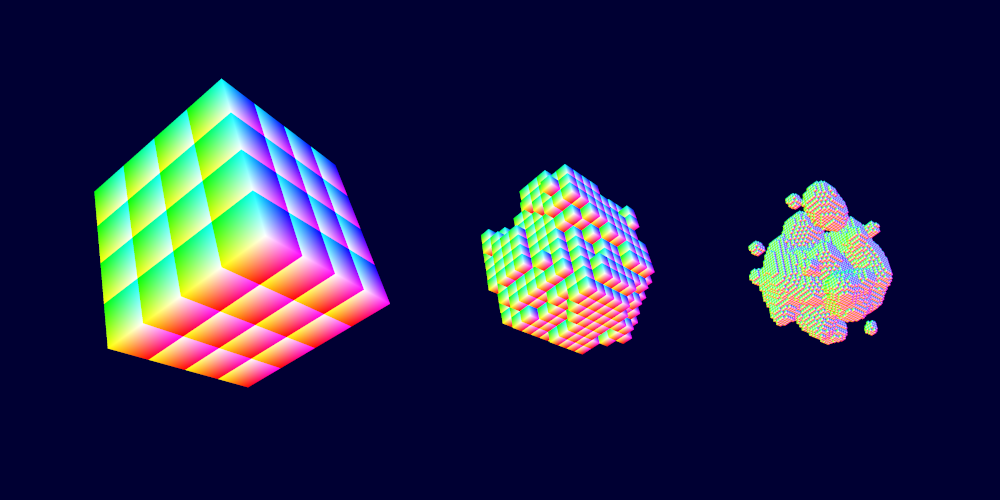
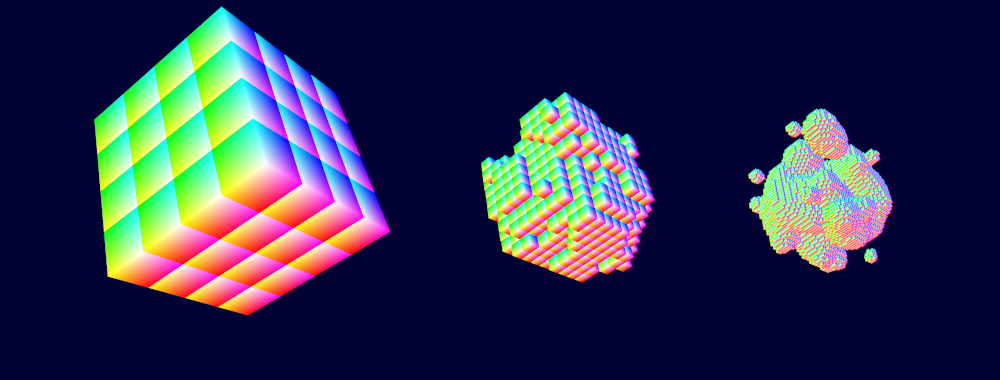
Updating content

Changed region(s): [[0.093, 0.0289, 0.403, 0.8395], [0.465, 0.2316, 0.682, 0.7526], [0.744, 0.2895, 0.899, 0.7237]]

diff --git a/css/style.css b/css/style.css
@@ -9,7 +9,7 @@
 
 body {
   font-family: var(--font-primary);
-  line-height: 1.6;
+  line-height: 1.8;
   color: var(--color-text-primary);
   background-color: var(--color-bg-primary);
   min-height: 100vh;
@@ -127,12 +127,14 @@ main h1:hover::after, main h2:hover::after {
 }
 
 p {
-  margin-bottom: 1rem;
+  margin-bottom: 1.5rem;
+  line-height: 1.8;
 }
 
 ul {
-  margin-bottom: 1rem;
+  margin-bottom: 1.5rem;
   padding-left: 2rem;
+  line-height: 1.8;
 }
 
 a {
@@ -181,8 +183,9 @@ table {
 }
 
 th, td {
-  padding: 0.6rem;
+  padding: 0.8rem;
   text-align: left;
+  line-height: 1.6;
 }
 
 th {
@@ -261,7 +264,7 @@ td img:hover {
   gap: 8px;
   margin: 12px 0;
   justify-content: center;
-  line-height: 1.2;
+  line-height: 1.5;
 }
 
 .tag {

diff --git a/projects/signed-distance-fields.md b/projects/signed-distance-fields.md
@@ -70,17 +70,18 @@ For my project, I also needed a structure that could be constructed quickly. To 
 
 ## Implementation
 
-My main contribution with this project is a fast and parallel method of constructing SDF geometry on the GPU, so most of this section will be spent describing the construction algorithm. The key building block of my SDF geometry is 'bricks' (terminology borrowed from *Dreams*), which is an AABB that encapsulates 8x8x8 distance values.
+My main contribution with this project is a fast and parallel method of constructing SDF geometry on the GPU. The key building block of my SDF geometry is 'bricks' (terminology borrowed from *Dreams*), which is an AABB that encapsulates 8x8x8 distance values.
 The pipeline for constructing SDF geometry in my project looks like this:
 
 - **Create an 'edit' list.** This is the recipe of the object, consisting of a list of primitive shapes ('edits') and operations to combine them together (union, subtraction, etc).
-- **Edit dependency analysis.** This is a pre-process step to enable edit culling by working out how edits affect one another.
-- **Hierarchical brick construction.** A tree of bricks is created in an iterative process, quartering in size with each level to converge around the geometry surface. The number of iterations performed determines the resulting size of the bricks (and consequently the resolution of the geometry).
+- **Edit dependency analysis.** This is a pre-process step to enable edit culling by creating a table that describes which edits affect one another.
+- **Hierarchical brick construction.** A tree of bricks is created in an iterative process, quartering in size with each level to converge around the geometry surface. The wide-and-shallow tree is able to saturate the GPU with enough bricks to process faster than, for example, an octree.
 - **Edit culling.** This is the key optimization to enable real-time construction, by only evaluating the signed distance functions that will definitely influence the distance field values.
 - **Distance field evaluation.** Once all of the bricks have been identified, they each need to be filled with distance field data. This distance field data is then later rendered using a combination of hardware-accelerated raytracing and software sphere-tracing.
 
 Once SDF geometry is constructed, I make use of the hardware-accelerated DirectX Raytracing API to render it. The rendering pipeline looks like this:
-{% call layout.twoColumnLayout("/images/raytracing.png", "Ray-tracing is used for rendering, with SDF geometry on left and the brick bounding boxes on the right.", true) %}
+
+{% call layout.twoColumnLayout("/images/raytracing.png", "Ray-tracing is used for rendering. The SDF geometry is shown on left and the bounding boxes in the acceleration structure are on the right.", true) %}
 
 - **Build BVH.** A bounding-volume hierarchy is built around the leaf nodes of the brick tree before rendering begins.
 - **Ray-Brick Intersection.** The hardware-accelerated raytracing API performs Ray-AABB intersection testing.
@@ -91,12 +92,16 @@ Once SDF geometry is constructed, I make use of the hardware-accelerated DirectX
 
 This two-level rendering process, using hardware-accelerated raytracing to find ray-AABB intersections followed by sphere-tracing to find intersections with the SDF surface, proved to be very scalable and support hundreds of thousands of bricks. 
 
-This is demonstrated in the table and graph below, where the same object was constructed from 4,000-400,000 bricks. It can be seen that rendering latency does not significantly increase as the number of bricks increases (data collected on an NVIDIA 5090).
+![](/images/sdfScene.png)
+<div class="image-caption">
+The test scene used to gather data. It's made up of 1024 primitive 'edits', with lots of smooth blending and overlapping edits.
+</div>
 
+The scene shown above was constructed from 4,000 - 400,000 bricks and rendered without lighting to only measure ray-surface intersections. It can be seen that rendering latency does not significantly increase as the number of bricks increases (data collected on an NVIDIA 5090).
 
-{% call layout.twoColumnLayout("/images/sdfRenderingPerformance.png", "Rendering performance for a number of different brick sizes (and consequently brick counts).", true) %}
+{% call layout.twoColumnLayout("/images/sdfRenderingPerformance.png", "Rendering performance for a number of different brick counts. Rendering time is not closely related to the number of bricks.", true) %}
 
-Brick Count | Rendering Time (ms)
+Brick Count | Raytracing (ms)
 -|-
 4,042|0.78
 19,090|0.72
@@ -105,31 +110,46 @@ Brick Count | Rendering Time (ms)
 
 {% endcall %}
 
-<!-- INSERT GRAPH OF RENDER TIME VS BRICK COUNT to demonstrate scalability -->
-
-
 ### Constructing Bricks
 
-The first challenge to building SDF geometry is to decide where to evaluate the distance field. Clearly I cannot evaluate every point in space, especially not in real-time. Plus, the memory requirements to store distance values at all points would severely limit the region of space that geometry could exist in. This is evident in *[Claybook](https://claybookgame.com/)*, which used a dense distance field with a maximum resolution of 1024x512x1024 and consequently gameplay is constrained to a small region of space.
+*[Claybook](https://claybookgame.com/)*, which used a dense distance field, constrains gameplay to a defined region of space to bound memory consumption. However, I wanted to avoid this and to allow geometry to exist anywhere. However, clearly I cannot evaluate every point in space due to bounded space and time requirements.
 
 {% call layout.twoColumnLayout("/images/brickPool.png", "A slice from the brick pool, with magnified excerpt on the right. The boundaries of bricks can be identified clearly.") %}
 
-A sparse representation of the distance field improves scalability. We place bricks in regions of space that contain any surface (i.e., a region of space which contains both positive and negative distance values), and each brick will point to some region of a 'brick atlas' (as shown to the left) which stores the distance values for the entire object in a compact manner. The challenge lies in determining where these regions of space that contain a surface lie. The method I went with was a hierarchical refinement of space to narrow-in on regions of space that contain a surface.
+This can be handled with a sparse representation of the distance field. Bricks are only placed in regions of space that contain any surface. 
+
+Each brick owns some region of a 'brick atlas' (as shown to the left), where all distance values for the entire object in a compact manner. The challenge lies in determining where these regions of space that contain a surface lie. The method I went with was a hierarchical refinement of space to narrow-in on regions of space that contain a surface.
 
 {% endcall %}
 
 In this hierarchical process, if a brick contains a surface, it will split into 64 sub-bricks in the next iteration, with one-quarter the side length. This method is well suited for the GPU for a bunch of reasons:
-- One compute shader group can operate on each brick, with one thread executing per candidate sub-brick. These threads can co-operate with loading edits into group-shared memory to reduce the VRAM bandwidth consumed.
+- One compute shader group operates on each brick, with one thread executing per candidate sub-brick. These threads can co-operate with loading edits into group-shared memory to reduce the VRAM bandwidth consumed.
 - A prefix-sum is performed to calculate indices to place the sub-bricks. Only the sums of sub-bricks-per-brick need to scanned, which significantly reduces the amount of data to operate on. Scanning allows a compact buffer to be maintained, improving cache usage when loading bricks from VRAM in later stages.
 - Sub-bricks are sorted by Morton codes calculated from their positions before inserting them into the buffer. This ensures that bricks nearby in space are located nearby in the buffer, which reduces cache thrashing due to incoherent data.
 - A consequence of the hierarchical process is that sorting bricks within each group before placing them in the buffer is enough to guarantee that the entire buffer is sorted at the end of the construction process. You can understand this by considering how the most significant bits of the Morton codes do not change with proceeding iterations.
 - D3D12's indirect execution model can be utilized for the GPU to feed itself work for each subsequent iteration. The total number of iterations can be calculated on the CPU ahead of time by deciding on an initial and minimum brick size.
 
 ![](/images/hierarchical.png)
+<div class="image-caption">
+3 iterations of brick-building. Bricks quarter in size with each iteration, and only bricks that contain some surface are subdivided.
+</div>
 
 Once all bricks are placed, we know exactly where to evaluate the distance field. Each brick contains 8x8x8 distance values, and each of these can be calculated by iterating through the edit list and evaluating each edit in turn at the current point in space. One compute shader group operates per brick, so the threads can co-operate in loading edits into group-shared memory to reduce memory bandwidth.
 
-In the early iterations of hierarchical brick construction the GPU suffers from low occupancy due to the small workloads. Only after a few iterations are enough bricks spawned to keep the GPU fully fed. However, building the tree of bricks is blazingly fast compared to evaluating the distance field they encompass, so it was much more worthwhile to optimize the distance field evaluation. This was done by introducing *edit culling*...
+The table and graph below shows times for brick construction and SDF evaluation for the same scene as before, made up of 1024 primitive edits and constructed at various resolutions (data collected on an NVIDIA 5090).
+
+{% call layout.twoColumnLayout("/images/sdfConstructionPerformance_noEditCulling.png", "Construction time as brick count increases. Construction time increases linearly with amount of geometry in the scene.", true) %}
+
+Brick Count | Brick Building (ms) | SDF Evaluation (ms)
+-|-|-
+4,100|0.79|5.63
+19,565|0.87|25.97
+82,501|1.95|108.67
+377,101|5.05|496.16
+
+{% endcall %}
+
+In the early iterations of hierarchical brick construction the GPU suffers from low throughput due to the small workloads, but this alleviates after ~2 iterations. However, SDF evaluation was a huge bottleneck, especially on a scene with lots of overlapping edits. To tackle this, I introduced *edit culling*...
 
 ### Edit Culling
 
@@ -137,16 +157,27 @@ The obvious optimization is to realize the collection of bricks only represent a
 
 The introduction of 'smooth blending' operations, which is one of the most satisfying features of SDF geometry, means that the influence of edits extends beyond the geometric bounds of the primitive shape itself. Additionally, edits within the edit list will influence other edits that appear later in the list.
 
-This requires an analysis of what I called 'edit dependencies'. This is the identification of which edits are influenced by preceding edits in the list, and ensure that an edit is only culled if all of its dependencies are also able to be culled.
-
-With an understanding of the dependencies established, edit culling is refined iteratively throughout hierarchical brick construction. This is achieved by refining 'index buffers' for each brick, which maintains a list of only the relevant edits for each brick. This introduces a memory overhead to store these index buffers, but dramatically accelerates distance field evaluation - especially as scenes scale in number of bricks and/or edits.
+This requires an analysis of9 'edit dependencies'. This is the identification of which edits are influenced by preceding edits in the list, and ensure that an edit is only culled if all of its dependencies are also able to be culled. Smooth blending dramatically increases the number of dependencies between edits.
 
 ![](/images/editCount.png)
 <div class="image-caption">
 Heatmap showing number of SDF evaluations with different amounts of smooth blending. It can be seen smooth blending dramatically increases the number of SDF overlaps, diminishing the effects of edit culling.
 </div>
 
-<!-- INSERT DATA COMPARING WITH / WITHOUT EDIT CULLING TO SHOW PERFORMANCE IMPROVEMENT -->
+With an understanding of the dependencies established, edit culling is refined iteratively throughout hierarchical brick construction. This is achieved by refining 'index buffers' for each brick, which maintains a list of only the relevant edits for each brick. This introduces a memory overhead to store these index buffers, but dramatically accelerates distance field evaluation - especially as scenes scale in number of bricks and/or edits.
+
+{% call layout.twoColumnLayout("/images/sdfConstructionPerformance_editCulling.png", "Construction time as brick count increases, with edit culling enabled. Construction still time increases linearly, but is orders of magnitude faster.", true) %}
+
+Brick Count | Brick Building (ms) | SDF Evaluation (ms)
+-|-|-
+4,042|0.67|0.27
+19,087|0.63|0.94
+79,250|0.94|3.45
+362,830|1.49|13.69
+
+{% endcall %}
+
+With edit culling enabled, the reduction in both brick building time and SDF evaluation is stark; orders of magnitude faster. It is particularly effective in this scene, with a very large number of edits.
 
 ## Conclusions
 
@@ -160,6 +191,14 @@ If I were to develop this further, I would be interested in investigating the fo
 
 ## Videos
 
-Check out additional video content about this project:
+<div style="text-align: center; max-width: 100%;">
+<iframe style="max-width: 100%; width: 560px; height: 315px;" src="https://www.youtube.com/embed/VDC3vSBE-bk?si=vU4Q2uK1TUJ2l_Qv" title="YouTube video player" frameborder="0" allow="accelerometer; autoplay; clipboard-write; encrypted-media; gyroscope; picture-in-picture; web-share" referrerpolicy="strict-origin-when-cross-origin" allowfullscreen></iframe>
+</div>
 
-## References
+<div style="text-align: center; max-width: 100%;">
+<iframe style="max-width: 100%; width: 560px; height: 315px;" src="https://www.youtube.com/embed/Y6qnGLtWf10?si=ky5dLlUyM_ICXBat" title="YouTube video player" frameborder="0" allow="accelerometer; autoplay; clipboard-write; encrypted-media; gyroscope; picture-in-picture; web-share" referrerpolicy="strict-origin-when-cross-origin" allowfullscreen></iframe>
+</div>
+
+<div style="text-align: center; max-width: 100%;">
+<iframe style="max-width: 100%; width: 560px; height: 315px;" src="https://www.youtube.com/embed/y6Reo1VShN4?si=devMG3fKIigO5Aq5" title="YouTube video player" frameborder="0" allow="accelerometer; autoplay; clipboard-write; encrypted-media; gyroscope; picture-in-picture; web-share" referrerpolicy="strict-origin-when-cross-origin" allowfullscreen></iframe>
+</div>